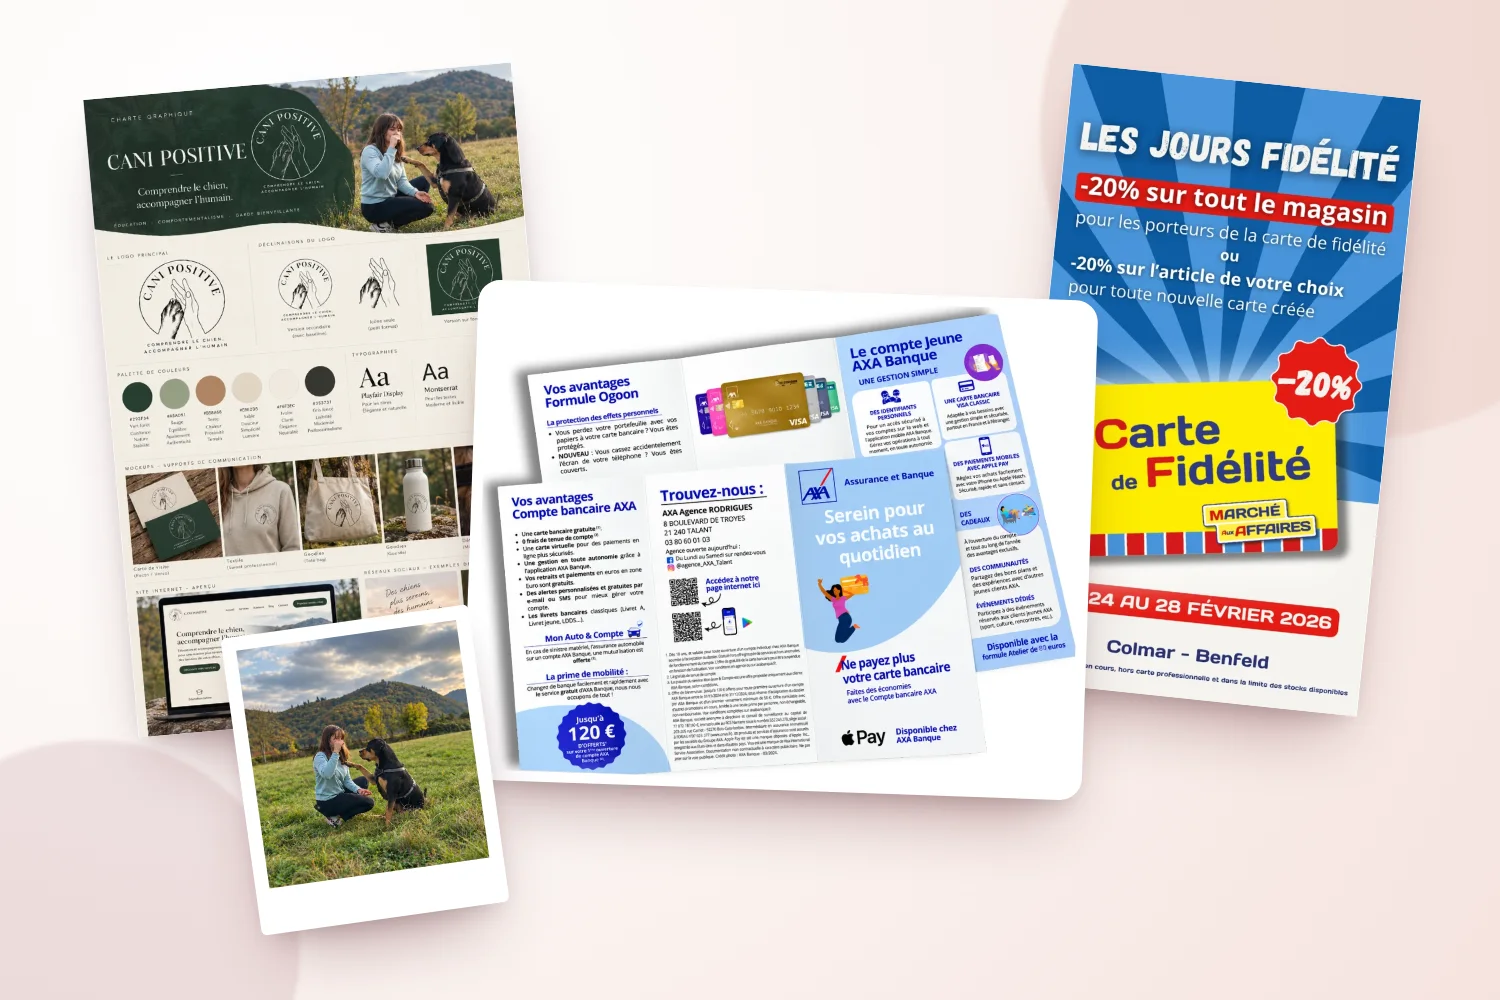
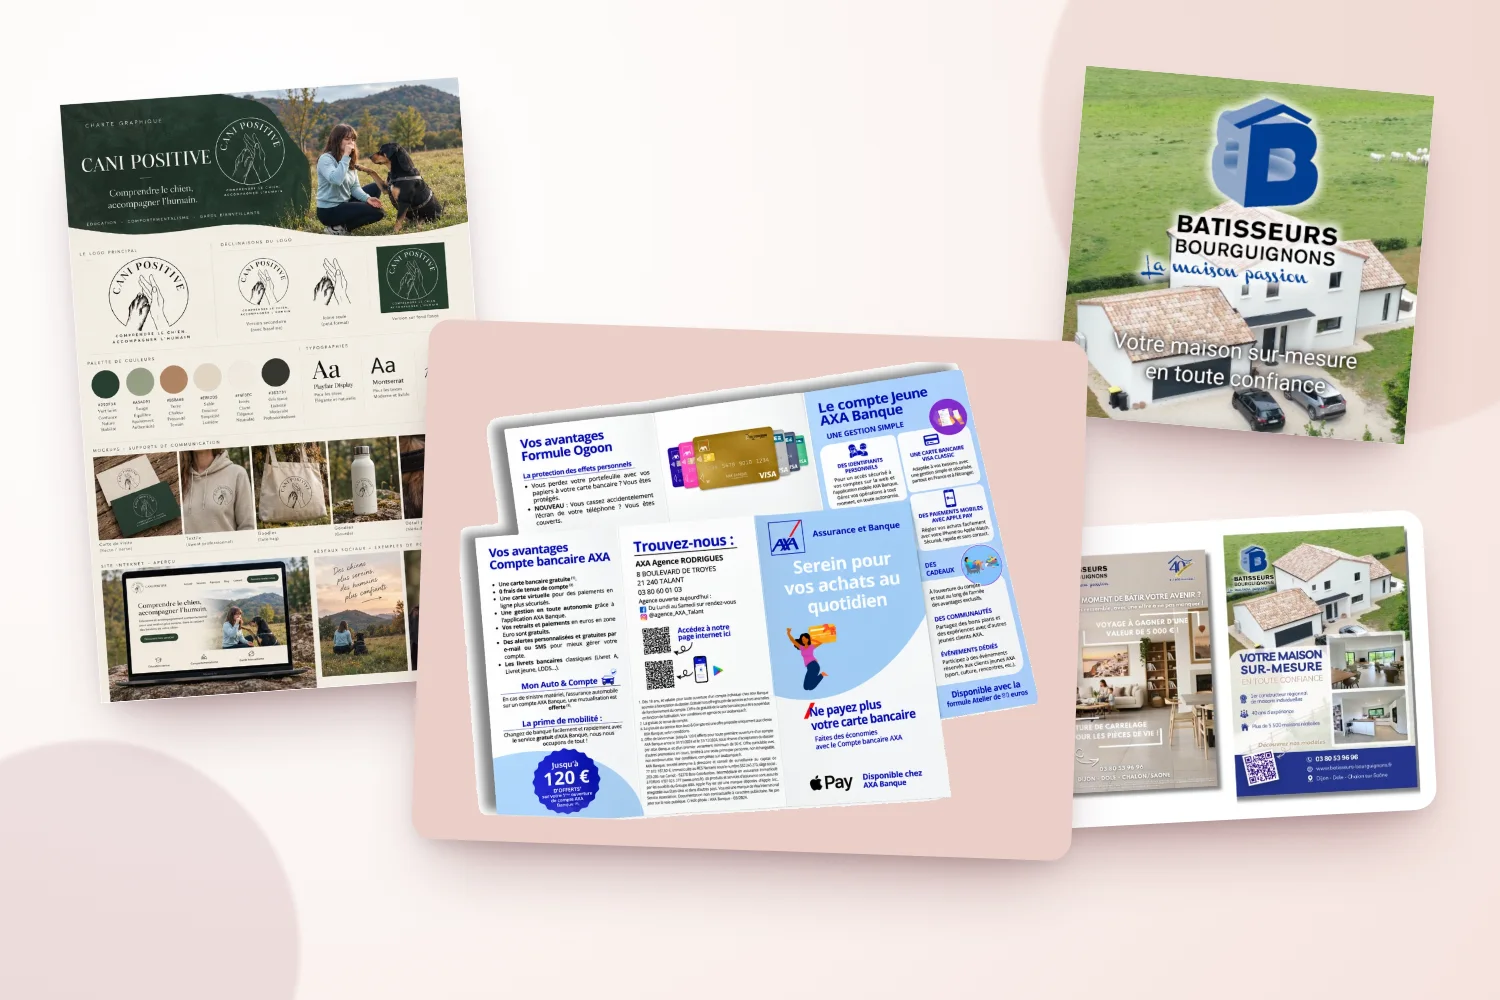
Missions réorganisées : chaque visuel dans le bon thème
Publicité digitale, site web et référencement (landing page, fiche Google),
réseaux sociaux (story, vidéo, LinkedIn), identité visuelle et print (encart
presse, flyers détourés), événementiel, pilotage et résultats.

Claude-Session: https://claude.ai/code/session_01ChKnf7MBQ7UGRg99UEPnwq

diff --git a/index.html b/index.html
@@ -805,7 +805,7 @@ blockquote footer b{display:block;color:var(--encre);font-weight:500;font-size:1
   <section class="bloc" id="realisations">
     <div class="wrap">
       <div class="entete-bloc"><div><p class="surtitre">Sur le terrain</p><h2>Mes missions</h2></div><p class="chapo" style="margin:0">Chaque case regroupe un type de mission. Cliquez pour voir le détail par entreprise.</p></div>
-      <div class="mosaique"><button class="projet" type="button" data-projet="publicite"><span class="plus-ico" aria-hidden="true">+</span><div class="visuel img"><picture><source media="(max-width:600px)" srcset="img/missions/mission-publicite-m.webp"><img src="img/missions/mission-publicite.webp" alt="Publicités Instagram des Bâtisseurs Bourguignons et statistiques de campagne Meta Ads" loading="lazy"></picture></div><div class="bas"><div><span class="type-mission">Publicité en ligne</span><h3>Campagnes Meta Ads et SEA</h3><span class="client">Bâtisseurs Bourguignons · NWS Laser</span></div></div></button><button class="projet" type="button" data-projet="site"><span class="plus-ico" aria-hidden="true">+</span><div class="visuel img"><picture><source media="(max-width:600px)" srcset="img/missions/mission-site-web-m.webp"><img src="img/missions/mission-site-web.webp" alt="Site internet des Bâtisseurs Bourguignons sur ordinateur" loading="lazy"></picture></div><div class="bas"><div><span class="type-mission">Site web et SEO</span><h3>Sites WordPress et référencement</h3><span class="client">Bâtisseurs Bourguignons · NWS Laser · auto-entrepreneuse</span></div></div></button><button class="projet" type="button" data-projet="social"><span class="plus-ico" aria-hidden="true">+</span><div class="visuel img"><picture><source media="(max-width:600px)" srcset="img/missions/mission-reseaux-sociaux-m.webp"><img src="img/missions/mission-reseaux-sociaux.webp" alt="Grille Instagram de Forme &amp; Force, publication du jeu-concours Marché aux Affaires et statistiques" loading="lazy"></picture></div><div class="bas"><div><span class="type-mission">Réseaux sociaux</span><h3>Stratégie, contenus et animation</h3><span class="client">AXA · Forme &amp; Force · Marché aux Affaires · NWS Laser</span></div></div></button><button class="projet" type="button" data-projet="video"><span class="plus-ico" aria-hidden="true">+</span><div class="visuel img"><picture><source media="(max-width:600px)" srcset="img/missions/mission-video-emailing-m.webp"><img src="img/missions/mission-video-emailing.webp" alt="Newsletter et vidéo de présentation d&#x27;un modèle de maison des Bâtisseurs Bourguignons" loading="lazy"></picture></div><div class="bas"><div><span class="type-mission">Vidéo et e-mailing</span><h3>Vidéos, newsletters et e-mailings</h3><span class="client">Bâtisseurs Bourguignons · AXA</span></div></div></button><button class="projet" type="button" data-projet="identite"><span class="plus-ico" aria-hidden="true">+</span><div class="visuel img"><picture><source media="(max-width:600px)" srcset="img/missions/mission-identite-print-m.webp"><img src="img/missions/mission-identite-print.webp" alt="Charte graphique de Cani Positive, flyers AXA et affiche du Marché aux Affaires" loading="lazy"></picture></div><div class="bas"><div><span class="type-mission">Identité visuelle et print</span><h3>Chartes, flyers et affiches</h3><span class="client">Cani Positive · AXA · Marché aux Affaires · NWS Laser</span></div></div></button><button class="projet" type="button" data-projet="evenementiel"><span class="plus-ico" aria-hidden="true">+</span><div class="visuel img"><picture><source media="(max-width:600px)" srcset="img/missions/mission-evenementiel-m.webp"><img src="img/missions/mission-evenementiel.webp" alt="Stand des Bâtisseurs Bourguignons, dossier d&#x27;organisation du team building et affiche du salon Micronora" loading="lazy"></picture></div><div class="bas"><div><span class="type-mission">Événementiel et salons</span><h3>Salons, événements réseau</h3><span class="client">Marché aux Affaires · Bâtisseurs Bourguignons · NWS Laser</span></div></div></button></div>
+      <div class="mosaique"><button class="projet" type="button" data-projet="publicite"><span class="plus-ico" aria-hidden="true">+</span><div class="visuel img"><picture><source media="(max-width:600px)" srcset="img/missions/mission-publicite-m.webp"><img src="img/missions/mission-publicite.webp" alt="Publicités Meta Ads des Bâtisseurs Bourguignons présentées sur smartphone" loading="lazy"></picture></div><div class="bas"><div><span class="type-mission">Publicité digitale</span><h3>Campagnes Meta Ads et SEA</h3><span class="client">Bâtisseurs Bourguignons · NWS Laser</span></div></div></button><button class="projet" type="button" data-projet="site"><span class="plus-ico" aria-hidden="true">+</span><div class="visuel img"><picture><source media="(max-width:600px)" srcset="img/missions/mission-site-web-m.webp"><img src="img/missions/mission-site-web.webp" alt="Site des Bâtisseurs Bourguignons, landing page et publication sur la fiche Google" loading="lazy"></picture></div><div class="bas"><div><span class="type-mission">Site web et référencement</span><h3>Site, landing page et fiche Google</h3><span class="client">Bâtisseurs Bourguignons · NWS Laser · auto-entrepreneuse</span></div></div></button><button class="projet" type="button" data-projet="social"><span class="plus-ico" aria-hidden="true">+</span><div class="visuel img"><picture><source media="(max-width:600px)" srcset="img/missions/mission-reseaux-sociaux-m.webp"><img src="img/missions/mission-reseaux-sociaux.webp" alt="Grille Instagram de Forme &amp; Force, story et jeu-concours du Marché aux Affaires, vidéo des Bâtisseurs Bourguignons" loading="lazy"></picture></div><div class="bas"><div><span class="type-mission">Réseaux sociaux</span><h3>Contenus, stories et vidéos</h3><span class="client">Forme &amp; Force · Marché aux Affaires · Bâtisseurs Bourguignons · AXA · NWS Laser</span></div></div></button><button class="projet" type="button" data-projet="identite"><span class="plus-ico" aria-hidden="true">+</span><div class="visuel img"><picture><source media="(max-width:600px)" srcset="img/missions/mission-identite-print-m.webp"><img src="img/missions/mission-identite-print.webp" alt="Charte graphique de Cani Positive, flyers AXA, encart presse et brochure des Bâtisseurs Bourguignons" loading="lazy"></picture></div><div class="bas"><div><span class="type-mission">Identité visuelle et print</span><h3>Charte, flyers et presse</h3><span class="client">Cani Positive · AXA · Bâtisseurs Bourguignons · NWS Laser</span></div></div></button><button class="projet" type="button" data-projet="evenementiel"><span class="plus-ico" aria-hidden="true">+</span><div class="visuel img"><picture><source media="(max-width:600px)" srcset="img/missions/mission-evenementiel-m.webp"><img src="img/missions/mission-evenementiel.webp" alt="Visiteurs et stand des Bâtisseurs Bourguignons, dossier du team building et affiche du salon Micronora" loading="lazy"></picture></div><div class="bas"><div><span class="type-mission">Événementiel et salons</span><h3>Salons et événements réseau</h3><span class="client">Marché aux Affaires · Bâtisseurs Bourguignons · NWS Laser</span></div></div></button><button class="projet" type="button" data-projet="pilotage"><span class="plus-ico" aria-hidden="true">+</span><div class="visuel img"><picture><source media="(max-width:600px)" srcset="img/missions/mission-pilotage-m.webp"><img src="img/missions/mission-pilotage.webp" alt="Calendrier éditorial et tableaux de statistiques Facebook, Meta Ads et jeu-concours" loading="lazy"></picture></div><div class="bas"><div><span class="type-mission">Pilotage et résultats</span><h3>Planning, suivi et reporting</h3><span class="client">AXA · Bâtisseurs Bourguignons · Marché aux Affaires</span></div></div></button></div>
     </div>
   </section>
 
@@ -950,7 +950,7 @@ Bien cordialement,</textarea>
 
 <script>
 (function(){
-  var P={"publicite": {"client": "Publicité en ligne · Bâtisseurs Bourguignons · NWS Laser", "titre": "Campagnes Meta Ads et SEA", "img": "img/missions/mission-publicite.webp", "imgm": "img/missions/mission-publicite-m.webp", "alt": "Publicités Instagram des Bâtisseurs Bourguignons et statistiques de campagne Meta Ads", "mission": "Générer des prospects avec un budget maîtrisé, dans un secteur du bâtiment en crise.", "actions": ["Bâtisseurs Bourguignons : création des visuels, ciblage et pilotage des campagnes Meta Ads", "NWS Laser : référencement payant (SEA)", "Suivi du coût par clic et ajustement des campagnes"], "chiffres": [["0,18 €", "de coût par clic"]], "tags": ["Meta Ads", "SEA", "Ciblage"]}, "site": {"client": "Site web et SEO · Bâtisseurs Bourguignons · NWS Laser · auto-entrepreneuse", "titre": "Sites WordPress et référencement", "img": "img/missions/mission-site-web.webp", "imgm": "img/missions/mission-site-web-m.webp", "alt": "Site internet des Bâtisseurs Bourguignons sur ordinateur", "mission": "Faire du site un vrai outil de prospection, visible sur Google.", "actions": ["Bâtisseurs Bourguignons : refonte du site, contenus, SEO et référencement local", "NWS Laser : site web, SEO et fiche Google", "Une auto-entrepreneuse : conception de son site internet"], "chiffres": [["≈ 20", "leads par mois via le site des Bâtisseurs"]], "tags": ["WordPress", "SEO", "UX"]}, "social": {"client": "Réseaux sociaux · AXA · Forme & Force · Marché aux Affaires · NWS Laser", "titre": "Stratégie, contenus et animation", "img": "img/missions/mission-reseaux-sociaux.webp", "imgm": "img/missions/mission-reseaux-sociaux-m.webp", "alt": "Grille Instagram de Forme & Force, publication du jeu-concours Marché aux Affaires et statistiques", "mission": "Installer une prise de parole régulière qui fait grandir l'audience.", "actions": ["Agence AXA : calendrier éditorial, 2 à 3 publications par semaine", "Forme & Force : stratégie, piliers de contenu et templates Instagram", "Marché aux Affaires : jeu-concours sur les réseaux sociaux", "NWS Laser : publications LinkedIn"], "chiffres": [["+136 %", "de visibilité Facebook pour AXA"], ["4 000+", "inscrits au jeu-concours"]], "tags": ["Facebook", "Instagram", "LinkedIn"]}, "video": {"client": "Vidéo et e-mailing · Bâtisseurs Bourguignons · AXA", "titre": "Vidéos, newsletters et e-mailings", "img": "img/missions/mission-video-emailing.webp", "imgm": "img/missions/mission-video-emailing-m.webp", "alt": "Newsletter et vidéo de présentation d'un modèle de maison des Bâtisseurs Bourguignons", "mission": "Garder le lien avec les prospects et les clients, au bon moment.", "actions": ["Bâtisseurs Bourguignons : vidéos de présentation des maisons et newsletters", "Agence AXA : e-mailings d'offres commerciales et de fidélisation"], "chiffres": [], "tags": ["Vidéo", "Newsletter", "E-mailing"]}, "identite": {"client": "Identité visuelle et print · Cani Positive · AXA · Marché aux Affaires · NWS Laser", "titre": "Chartes, flyers et affiches", "img": "img/missions/mission-identite-print.webp", "imgm": "img/missions/mission-identite-print-m.webp", "alt": "Charte graphique de Cani Positive, flyers AXA et affiche du Marché aux Affaires", "mission": "Donner une image claire et cohérente, du logo jusqu'aux supports imprimés.", "actions": ["Cani Positive : charte graphique complète pour le lancement", "NWS Laser : branding et design des packagings", "Agence AXA : flyers produits", "Marché aux Affaires : affiches promotionnelles en magasin"], "chiffres": [], "tags": ["Charte graphique", "Print", "Packaging"]}, "evenementiel": {"client": "Événementiel et salons · Marché aux Affaires · Bâtisseurs Bourguignons · NWS Laser", "titre": "Salons, événements réseau", "img": "img/missions/mission-evenementiel.webp", "imgm": "img/missions/mission-evenementiel-m.webp", "alt": "Stand des Bâtisseurs Bourguignons, dossier d'organisation du team building et affiche du salon Micronora", "mission": "Créer des rendez-vous qui fédèrent et qui rapportent des contacts.", "actions": ["Marché aux Affaires : team building de 2 jours pour 300 franchisés", "Bâtisseurs Bourguignons : stands et salons de l'habitat", "NWS Laser : salons professionnels Micronora et SIANE, et publication LinkedIn d'invitation"], "chiffres": [["300", "franchisés réunis"]], "tags": ["Événementiel", "Salons", "Logistique"]}};
+  var P={"publicite": {"client": "Publicité digitale · Bâtisseurs Bourguignons · NWS Laser", "titre": "Campagnes Meta Ads et SEA", "img": "img/missions/mission-publicite.webp", "imgm": "img/missions/mission-publicite-m.webp", "alt": "Publicités Meta Ads des Bâtisseurs Bourguignons présentées sur smartphone", "mission": "Générer des prospects avec un budget maîtrisé, dans un secteur du bâtiment en crise.", "actions": ["Bâtisseurs Bourguignons : création des visuels, ciblage et pilotage des campagnes Meta Ads", "NWS Laser : référencement payant (SEA)", "Suivi du coût par clic et ajustement des campagnes"], "chiffres": [["0,18 €", "de coût par clic"]], "tags": ["Meta Ads", "SEA", "Ciblage"]}, "site": {"client": "Site web et référencement · Bâtisseurs Bourguignons · NWS Laser · auto-entrepreneuse", "titre": "Site, landing page et fiche Google", "img": "img/missions/mission-site-web.webp", "imgm": "img/missions/mission-site-web-m.webp", "alt": "Site des Bâtisseurs Bourguignons, landing page et publication sur la fiche Google", "mission": "Faire du site un vrai outil de prospection, visible sur Google et en local.", "actions": ["Bâtisseurs Bourguignons : refonte du site, landing page, SEO et publications sur la fiche Google", "NWS Laser : site web, SEO et fiche Google", "Une auto-entrepreneuse : conception de son site internet"], "chiffres": [["≈ 20", "leads par mois via le site des Bâtisseurs"]], "tags": ["WordPress", "SEO", "Fiche Google"]}, "social": {"client": "Réseaux sociaux · Forme & Force · Marché aux Affaires · Bâtisseurs Bourguignons · AXA · NWS Laser", "titre": "Contenus, stories et vidéos", "img": "img/missions/mission-reseaux-sociaux.webp", "imgm": "img/missions/mission-reseaux-sociaux-m.webp", "alt": "Grille Instagram de Forme & Force, story et jeu-concours du Marché aux Affaires, vidéo des Bâtisseurs Bourguignons", "mission": "Installer une prise de parole régulière qui fait grandir l'audience.", "actions": ["Forme & Force : stratégie, piliers de contenu et templates Instagram", "Marché aux Affaires : stories et jeu-concours", "Bâtisseurs Bourguignons : vidéos de présentation des maisons", "Agence AXA : 2 à 3 publications Facebook par semaine", "NWS Laser : publications LinkedIn"], "chiffres": [["4 000+", "inscrits au jeu-concours"]], "tags": ["Instagram", "Facebook", "LinkedIn", "Vidéo"]}, "identite": {"client": "Identité visuelle et print · Cani Positive · AXA · Bâtisseurs Bourguignons · NWS Laser", "titre": "Charte, flyers et presse", "img": "img/missions/mission-identite-print.webp", "imgm": "img/missions/mission-identite-print-m.webp", "alt": "Charte graphique de Cani Positive, flyers AXA, encart presse et brochure des Bâtisseurs Bourguignons", "mission": "Donner une image claire et cohérente, du logo jusqu'aux supports imprimés.", "actions": ["Cani Positive : charte graphique complète pour le lancement", "Agence AXA : flyers produits", "Bâtisseurs Bourguignons : encart presse et brochures", "NWS Laser : branding et design des packagings"], "chiffres": [], "tags": ["Charte graphique", "Print", "Presse"]}, "evenementiel": {"client": "Événementiel et salons · Marché aux Affaires · Bâtisseurs Bourguignons · NWS Laser", "titre": "Salons et événements réseau", "img": "img/missions/mission-evenementiel.webp", "imgm": "img/missions/mission-evenementiel-m.webp", "alt": "Visiteurs et stand des Bâtisseurs Bourguignons, dossier du team building et affiche du salon Micronora", "mission": "Créer des rendez-vous qui fédèrent et qui rapportent des contacts.", "actions": ["Marché aux Affaires : team building de 2 jours pour 300 franchisés", "Bâtisseurs Bourguignons : stands et salons de l'habitat", "NWS Laser : salons professionnels Micronora et SIANE"], "chiffres": [["300", "franchisés réunis"]], "tags": ["Événementiel", "Salons", "Logistique"]}, "pilotage": {"client": "Pilotage et résultats · AXA · Bâtisseurs Bourguignons · Marché aux Affaires", "titre": "Planning, suivi et reporting", "img": "img/missions/mission-pilotage.webp", "imgm": "img/missions/mission-pilotage-m.webp", "alt": "Calendrier éditorial et tableaux de statistiques Facebook, Meta Ads et jeu-concours", "mission": "Organiser la communication dans le temps et mesurer ce qu'elle rapporte.", "actions": ["Calendriers éditoriaux et plannings de publication", "Agence AXA : suivi de la visibilité de la page Facebook", "Bâtisseurs Bourguignons : suivi des clics, de la couverture et du coût par clic", "Marché aux Affaires : bilan du jeu-concours"], "chiffres": [["+136 %", "de visibilité Facebook pour AXA"]], "tags": ["Calendrier éditorial", "KPI", "Reporting"]}};
   var d=document.getElementById('fenetre');
   function el(id){return document.getElementById(id)}
   function txt(t,tag){var e=document.createElement(tag);e.textContent=t;return e}
